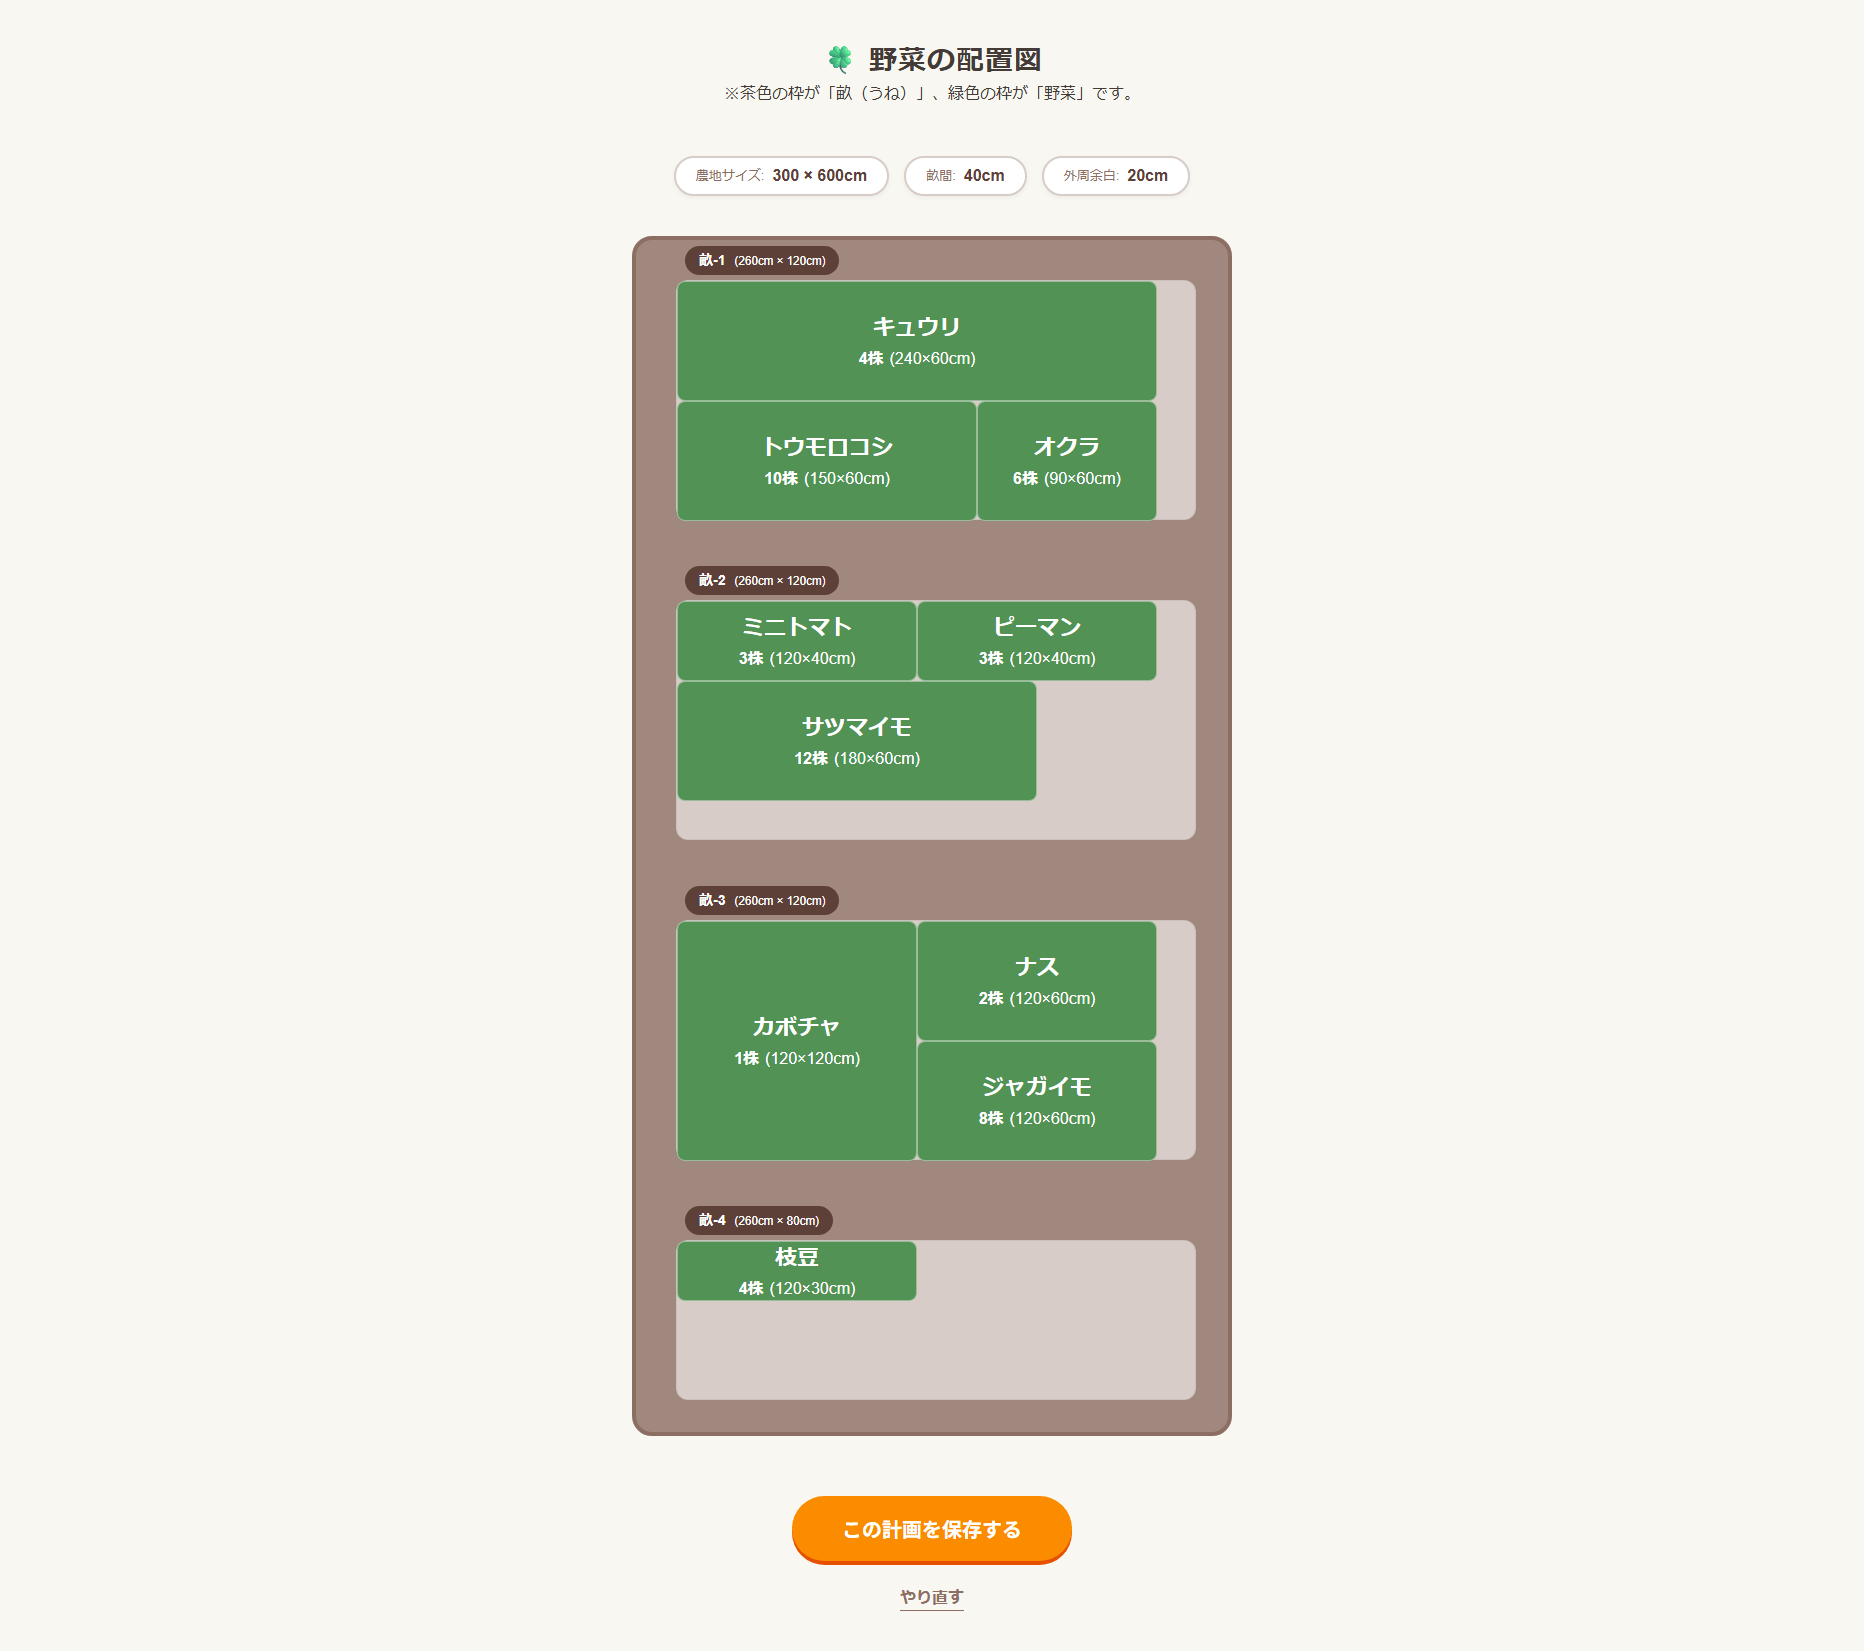
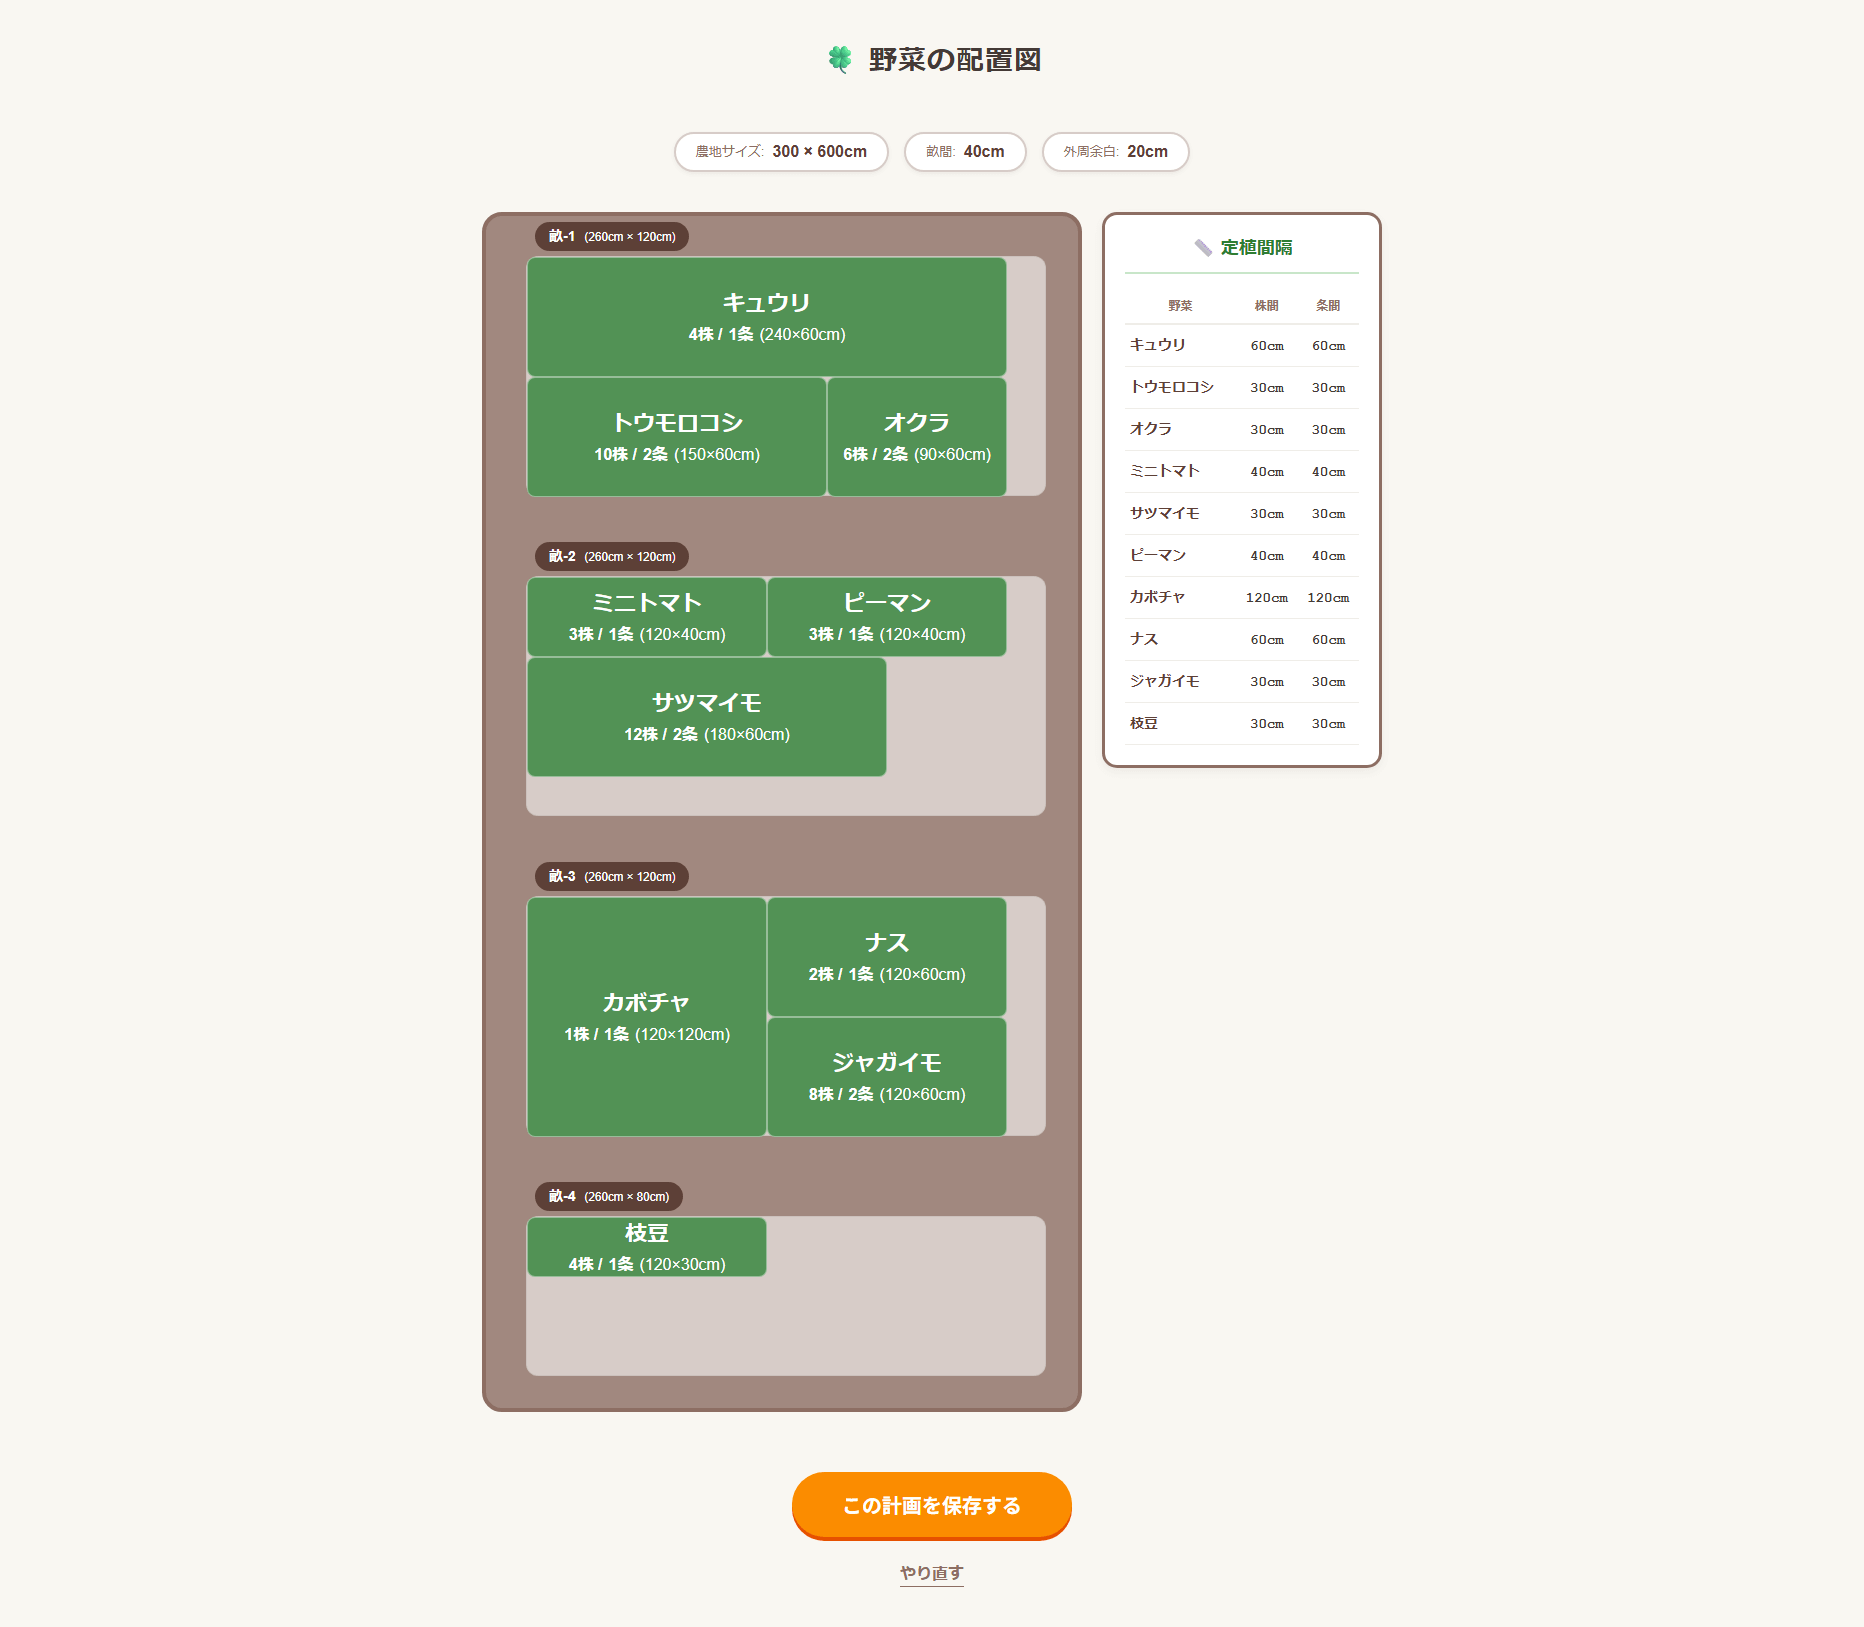
feat: 結果画面のレイアウト調整と定植間隔テーブルの追加

Changed region(s): [[0.2489, 0.0922, 0.7157, 0.9527], [0.4045, 0.0307, 0.5912, 0.0615]]

diff --git a/src/main/resources/templates/result.html b/src/main/resources/templates/result.html
@@ -8,7 +8,6 @@
   <body>
     <header>
       <h2>🍀 野菜の配置図</h2>
-      <p>※茶色の枠が「畝（うね）」、緑色の枠が「野菜」です。</p>
     </header>
     <div class="total-info">
       <div class="info-item">
@@ -26,52 +25,95 @@
         <span th:text="${farmland.offset} + 'cm'"></span>
       </div>
     </div>
-    <div
-      class="farmland"
-      th:style="'width:' + ${farmland.width * 2} + 'px; height:' + ${farmland.height * 2} + 'px;'"
-    >
-      <div
-        th:each="ridge : ${farmland.ridgeList}"
-        class="ridge"
-        th:style="'left:' + ${ridge.x * 2} + 'px; 
-                       top:' + ${ridge.y * 2} + 'px; 
-                       width:' + ${ridge.width * 2} + 'px; 
-                       height:' + ${ridge.height * 2} + 'px;'"
-      >
-        <span class="ridge-label">
-          <span th:text="${ridge.name}">畝-1</span>
-          <small
-            class="dimension"
-            th:text="'(' + ${ridge.width} + 'cm × ' + ${ridge.height} + 'cm)'"
-          ></small>
-        </span>
 
+    <div class="result-main-content">
+      <div class="layout-container">
         <div
-          th:each="plant : ${ridge.plantAreaList}"
-          class="plant-area"
-          th:style="'left:' + ${(plant.x - ridge.x) * 2} + 'px; 
-                           top:' + ${(plant.y - ridge.y) * 2} + 'px; 
-                           width:' + ${plant.width * 2} + 'px; 
-                           height:' + ${plant.height * 2} + 'px;'"
+          class="farmland"
+          th:style="'width:' + ${farmland.width * 2} + 'px; height:' + ${farmland.height * 2} + 'px;'"
         >
-          <div class="plant-content">
-            <strong class="v-name" th:text="${plant.vegetable.name}"
-              >野菜名</strong
-            >
+          <div
+            th:each="ridge : ${farmland.ridgeList}"
+            class="ridge"
+            th:style="'left:' + ${ridge.x * 2} + 'px;
+                       top:' + ${ridge.y * 2} + 'px;
+                       width:' + ${ridge.width * 2} + 'px;
+                       height:' + ${ridge.height * 2} + 'px;'"
+          >
+            <span class="ridge-label">
+              <span th:text="${ridge.name}">畝-1</span>
+              <small
+                class="dimension"
+                th:text="'(' + ${ridge.width} + 'cm × ' + ${ridge.height} + 'cm)'"
+              ></small>
+            </span>
 
-            <div class="v-details">
-              <span
-                class="v-quantity"
-                th:text="${plant.quantity} + '株'"
-              ></span>
-              <span
-                class="v-total-size"
-                th:text="'(' + ${plant.width} + '×' + ${plant.height} + 'cm)'"
-              ></span>
+            <div
+              th:each="plant : ${ridge.plantAreaList}"
+              class="plant-area"
+              th:style="'left:' + ${(plant.x - ridge.x) * 2} + 'px;
+                           top:' + ${(plant.y - ridge.y) * 2} + 'px;
+                           width:' + ${plant.width * 2} + 'px;
+                           height:' + ${plant.height * 2} + 'px;'"
+            >
+              <div class="plant-content">
+                <strong class="v-name" th:text="${plant.vegetable.name}"
+                  >野菜名</strong
+                >
+
+                <div class="v-details">
+                  <span
+                    class="v-quantity"
+                    th:text="${plant.quantity} + '株 / '"
+                  ></span>
+                  <span
+                    class="v-quantity"
+                    th:text="${plant.rowsCount} + '条'"
+                  ></span>
+                  <span
+                    class="v-total-size"
+                    th:text="'(' + ${plant.width} + '×' + ${plant.height} + 'cm)'"
+                  ></span>
+                </div>
+              </div>
             </div>
           </div>
         </div>
       </div>
+
+      <aside class="side-planting-guide">
+        <h3 class="guide-title">📏 定植間隔</h3>
+        <table class="mini-specs-table">
+          <thead>
+            <tr>
+              <th>野菜</th>
+              <th>株間</th>
+              <th>条間</th>
+            </tr>
+          </thead>
+          <tbody>
+            <th:block th:each="ridge : ${farmland.ridgeList}">
+              <tr th:each="plant : ${ridge.plantAreaList}">
+                <td class="name-cell" th:text="${plant.vegetable.name}">
+                  ナス
+                </td>
+                <td
+                  class="dim-cell"
+                  th:text="${plant.vegetable.unitWidth} + 'cm'"
+                >
+                  30cm
+                </td>
+                <td
+                  class="dim-cell"
+                  th:text="${plant.vegetable.unitHeight} + 'cm'"
+                >
+                  40cm
+                </td>
+              </tr>
+            </th:block>
+          </tbody>
+        </table>
+      </aside>
     </div>
 
     <div class="actions">

diff --git a/src/main/resources/static/css/result.css b/src/main/resources/static/css/result.css
@@ -50,11 +50,97 @@ header h2 {
   font-weight: normal;
 }
 
+/* 全体を横並びにするコンテナ */
+.result-main-content {
+  display: flex;
+  gap: 20px; /* レイアウトと表の間隔 */
+  justify-content: center;
+  align-items: flex-start;
+  margin: 40px auto; /* 画面全体に対しても中央に配置 */
+  max-width: 1200px; /* 広がりすぎないように最大幅を設定 */
+}
+
+/* 配置図のコンテナ（スクロール制御） */
+.layout-container {
+  flex: 0 1 auto;
+  overflow-x: auto;
+}
+
+/* サイドガイドのスタイル */
+.side-planting-guide {
+  width: 280px; /* 幅を固定してスッキリさせる */
+  background: #ffffff;
+  padding: 20px;
+  border-radius: 15px;
+  border: 3px solid #8d6e63;
+  box-shadow: 0 4px 10px rgba(0, 0, 0, 0.05);
+  position: sticky; /* スクロールしてもついてくるように設定 */
+  top: 20px;
+}
+
+.guide-title {
+  font-size: 18px;
+  color: #2e7d32;
+  margin-bottom: 15px;
+  text-align: center;
+  border-bottom: 2px solid #c8e6c9;
+  padding-bottom: 10px;
+}
+
+.mini-specs-table {
+  width: 100%;
+  border-collapse: collapse;
+}
+
+.mini-specs-table th {
+  font-size: 12px;
+  color: #8d6e63;
+  padding: 8px;
+  border-bottom: 2px solid #f0ede9;
+}
+
+.mini-specs-table td {
+  padding: 10px 5px;
+  border-bottom: 1px solid #f0ede9;
+  font-size: 14px;
+  text-align: center;
+}
+
+.name-cell {
+  font-weight: bold;
+  text-align: left !important;
+  color: #5d4037;
+}
+
+.dim-cell {
+  font-family: "Courier New", Courier, monospace; /* 数値を読みやすく */
+  font-weight: bold;
+}
+
+.guide-note {
+  font-size: 11px;
+  color: #8d6e63;
+  margin-top: 15px;
+  text-align: center;
+}
+
+/* スマホ対応：画面が狭いときは縦に並べる */
+@media (max-width: 1024px) {
+  .result-main-content {
+    flex-direction: column;
+    align-items: center;
+  }
+  .side-planting-guide {
+    width: 100%;
+    max-width: 500px;
+    position: static;
+  }
+}
+
 .farmland {
   position: relative;
   background-color: #a1887f;
   border-radius: 20px;
-  margin: 40px auto;
   border: 4px solid #8d6e63;
 }
 
@@ -102,6 +188,7 @@ header h2 {
 }
 
 .v-details {
+  font-size: 10px;
   display: flex;
   justify-content: center;
   align-items: center;
